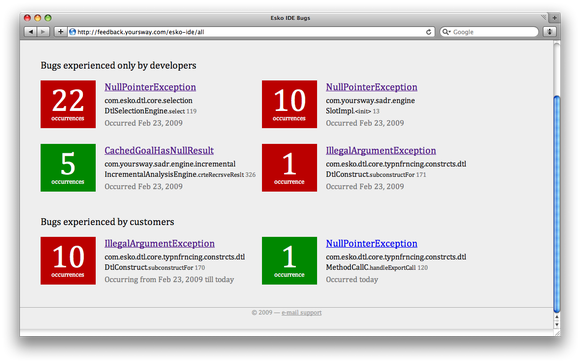
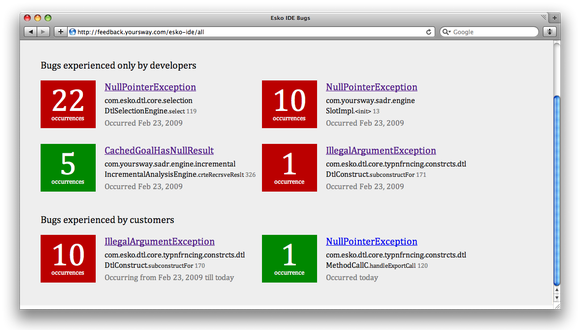
Spacing and horizontal grid adjustments.

diff --git a/server/templates/site_home.html b/server/templates/site_home.html
@@ -80,7 +80,7 @@
     </div>
     
     <div class="screen" style="width: 450px; padding-right: 100px;">
-      <div style="text-align: center; position: relative; padding-top: 1.5em;">
+      <div style="text-align: center; position: relative; padding-top: 3em;">
         <div style="position: absolute; top: 14em; margin-top: -2em; right: 0px;">
           <span style="font-size: 400%; line-height: 1;">»</span>
         </div>
@@ -92,149 +92,106 @@
     </div>
   
     <div id="one" class="screen" style="width: 580px;">
-      <div style="text-align: center; height: 3em;">
-        <span style="font-size: 300%; line-height: 1;">Live crash data</span>
-      </div>
-      <div><img src="/static/images/marketing/bugs.png" /></div>
+      <h2>See crashes live</h2>
+      <p>
+        Inspect crashes online as soon as they occur.
+        See how frequent each exception is.
+        Filter out the ones you have already seen.
+      </p>
+      <p><img class="screenshot" src="/static/images/marketing/bugs.png" width="580" height="330" style="padding-bottom: 4px;" /></p>
     </div>
 
-    <div class="screen" style="width: 500px;">
-      <div style="line-height: 1.5;">
-        <div style="margin-top: 3em;">
-          <span style="font-size: 200%;">
-            How it works?
-          </span>
-        </div>
-        <div style="margin-top: 1.5em;">
-          <span style="font-size: 150%;">
-            You install CrashKit client code into your application.
-          </span>
-        </div>
-        <div style="margin-top: 1.5em;">
-          <span style="font-size: 150%;">
-            CrashKit client code intercepts unhandled exceptions and sends them to the server.
-          </span>
-        </div>
-        <div style="margin-top: 1.5em;">
-          <span style="font-size: 150%;">
-            CrashKit web application processes the exception reports and allows to view
-            them online.
-          </span>
-        </div>
-      </div>
+    <div class="screen" style="width: 500px; padding-top: 8.5em;">
+      <h2>How it works?</h2>
+      <p>
+        You install CrashKit client code into your application.
+      </p>
+      <p>
+        CrashKit client code intercepts unhandled exceptions and sends them to the server.
+      </p>
+      <p>
+        CrashKit web application processes the exception reports and allows to view them online.
+      </p>
     </div>
 
     <div id="two" class="screen" style="width: 580px;">
-      <div style="text-align: center; height: 3em;">
-        <span style="font-size: 300%; line-height: 1;">Every detail you want</span>
-      </div>
-      <div><img src="/static/images/marketing/details.png" /></div>
+      <h2>Get every detail you want</h2>
+      <p>CrashKit automatically gathers product version, os&nbsp;version, processor type and other small
+        yet&nbsp;important details.</p>
+      <p><img class="screenshot" src="/static/images/marketing/details.png" width="580" height="334" /></p>
     </div>
 
-    <div id="three" class="screen" style="width: 420px;">
-      <div style="text-align: center; height: 4em;">
-        <span style="font-size: 300%; line-height: 1;">Instant notifications</span>
-      </div>
-      <div style="margin-top: 1em; text-align: center;"><img src="/static/images/marketing/email.png" /></div>
-      <div style="margin-top: 1em; padding-left: 5px; padding-right: 5px;">
-        <span style="font-size: 150%; line-height: 1.5;">
-          Learn about new bugs before your users even notice.
-          Fix them before the users complain.
-        </span>
-      </div>
+    <div id="three" class="screen" style="width: 420px; padding-top: 3em;">
+      <h2>E-mail notifications</h2>
+      <p>
+        Learn about new bugs before your users even notice.
+        Fix&nbsp;them before the users complain.
+      </p>
+      <p>
+        We won't spam your inbox, though: similar crashes
+        are never reported twice during the day.
+      </p>
+      <p><img src="/static/images/marketing/email.png" /></p>
     </div>
   
-    <div id="four" class="screen" style="width: 350px;">
-      <div style="line-height: 1.5;">
-        <div style="margin-top: 5em;">
-          <span style="font-size: 200%;">
-            Smart grouping
-          </span>
-        </div>
-        <div style="margin-top: 1.5em;">
-          <span style="font-size: 150%;">
-            Thousands of similar exception reports are&nbsp;grouped into dozens of&nbsp;bugs.
-            You only have to&nbsp;see and deal with bugs.
-          </span>
-        </div>
-        <div style="margin-top: 1.5em;">
-          <span style="font-size: 150%;">
-            That's also why we do not fill&nbsp;up your inbox: you'll be getting only one e-mail per
-            bug per day.
-          </span>
-        </div>
-      </div>
+    <div id="four" class="screen" style="width: 350px; padding-top: 3em;">
+      <h2>Smart grouping</h2>
+      <p>
+        Not all crash reports are created equal. Some differ in&nbsp;details.
+        Some have different stack traces, but still occur at&nbsp;the&nbsp;same spot.
+      </p>
+      <p>
+        1000s of similar exception reports are&nbsp;grouped into&nbsp;10s of&nbsp;bugs.
+        You only have to&nbsp;see and deal with those bugs.
+      </p>
+      <p>
+        That's why we can avoid filling&nbsp;up your inbox: you are getting only one e-mail per
+        bug per day.
+      </p>
     </div>
 
-   <div id="five" class="screen" style="width: 350px;">
-     <div style="line-height: 1.5;">
-       <div style="margin-top: 5em;">
-         <span style="font-size: 200%;">
-           QA support
-         </span>
-       </div>
-       <div style="margin-top: 1.5em;">
-         <span style="font-size: 150%;">
-           See the bugs that only happened in your QA environment separately. And also
-           separate are the bugs happening on developer machines.
-         </span>
-       </div>
-       <div style="margin-top: 1.5em;">
-         <span style="font-size: 150%;">
-           Expect more QA tools to&nbsp;come as&nbsp;CrashKit evolves.
-         </span>
-       </div>
-     </div>
-   </div>
+    <div id="five" class="screen" style="width: 350px; padding-top: 3em;">
+      <h2>QA support</h2>
+      <p>
+        See the bugs that only happened in your QA environment separately. And also
+        separate are the bugs happening on developer machines.
+      </p>
+      <p>
+        Expect more QA tools to&nbsp;come as&nbsp;CrashKit evolves.
+      </p>
+    </div>
 
-   <div id="six" class="screen" style="width: 580px;">
-     <div style="text-align: center; height: 3em;">
-       <span style="font-size: 300%; line-height: 1;">Five minutes to integrate</span>
-     </div>
-     <div style="margin-top: 1em; padding-left: 5px; padding-right: 5px;">
-       <span style="font-size: 150%; line-height: 1.5;">
-         1. Add our client to your project. 2. Tell it your app name and version.
-         3. Feed it all your uncaught exceptions.
-       </span>
-     </div>
-     <div><img src="/static/images/marketing/integrate.png" /></div>
-   </div>
+    <div id="six" class="screen" style="width: 580px;">
+      <h2>Five minutes to integrate</h2>
+      <p>1. Add CrashKit client code to your project.</p>
+      <p>2. Tell it your app name and version.</p>
+      <p>3. Feed all your uncaught exceptions into CrashKit.</p>
+      <p><img src="/static/images/marketing/integrate.png" /></p>
+    </div>
 
-   <div class="screen" style="width: 350px;">
-     <div style="line-height: 1.5;">
-       <div style="margin-top: 7.5em;">
-         <span style="font-size: 150%;">
-           We support or plan to support within&nbsp;a&nbsp;month:
-          </span>
-       </div>
-       <div style="margin-top: 1.5em;">
-         <span style="font-size: 150%;">
-           <b>Java,</b> Eclipse, OSGi, Servlets, Spring, <b>Objective-C,</b> Cocoa,
-           <b>Python,</b> Google App Engine, Django, <b>Ruby</b>, Ruby on Rails.
-         </span>
-       </div>
-     </div>
-   </div>
+    <div class="screen" style="width: 350px; padding-top: 10.5em;">
+      <p>
+        We support or plan to support within&nbsp;a&nbsp;month:
+      </p>
+      <p>
+        <b>Java,</b> Eclipse, OSGi, Spring, Log4j.
+      </p>
+      <p>
+        <b>Python,</b> Google App Engine, Django.
+      </p>
+      <p>
+        <b>Ruby</b>, Ruby on Rails.
+      </p>
+      </p>
+    </div>
 
-    <div class="screen" style="width: 500px;" id="signup">
-      <div style="line-height: 1.5;">
-        <div style="margin-top: 0em;">
-          <span style="font-size: 200%;">
-            <a name="signup">Sign up?</a>
-          </span>
-        </div>
-        <div style="margin-top: 1.5em;">
-          <span style="font-size: 150%;">
-            We are only running a&nbsp;limited beta at&nbsp;the moment.
-            But we promise to&nbsp;invite you within&nbsp;a&nbsp;month.
-          </span>
-        </div>
-        <div style="margin-top: 1.5em;">
-          <span style="font-size: 150%;">
-            {% include "beta_signup_form.html" %}
-          </span>
-        </div>
-      </div>
+    <div class="screen" style="width: 500px; padding-top: 3em;" id="signup">
+      <h2><a name="signup">Sign up?</a></h2>
+      <p>
+        We are only running a&nbsp;limited beta at&nbsp;the moment.
+        But we promise to&nbsp;invite you within&nbsp;a&nbsp;month.
+      </p>
+      {% include "beta_signup_form.html" %}
     </div>
     
   </div>

diff --git a/server/templates/beta_signup_form.html b/server/templates/beta_signup_form.html
@@ -2,9 +2,13 @@
   <h2 style="margin-top: 1em;">Limited Beta</h2>
   <div id="beta_signup">
     <form id="beta_signup_form" action="/betasignup/" method="POST">
-      <p><input type="text" id="email" name="email" size="30" placeholder="Your e-mail" style="width: 100%;"></p>
-      <p><input type="text" id="tech" name="tech" size="30" placeholder="Java or Python or Ruby or what?" style="width: 100%;"></p>
-      <p id="beta_signup_message" style="line-height: 1"><small>We'll send you 2 e-mails: your beta invitation and the final release announcement.</small></p>
+      <p>
+        <input type="text" id="email" name="email" size="30" placeholder="Your e-mail" style="width: 100%;">
+        <br/>
+        <input type="text" id="tech" name="tech" size="30" placeholder="Java or Python or Ruby or what?" style="width: 100%;">
+        <br/>
+        <span id="beta_signup_message"><small>We'll send you 2 e-mails: your beta invitation and the final release announcement.</small></span>
+      </p>
       <p><input type="submit" class="submit" value="I wanna try CrashKit"></p>
     </form>
   </div>

diff --git a/server/static/stylesheets/marketing.css b/server/static/stylesheets/marketing.css
@@ -42,8 +42,11 @@ a#authors       { right: 80px; top: 50%; height: 40px; width: 126px; margin-top:
 #top, #bottom { z-index: 1; }
 
 .container { width: 5360px; height: 30em; position: absolute; top: 50%; margin-top: -15em; }
-.screen { line-height: 1; float: left; padding: 20px 150px 20px 0px; }
-.text { font-size: 500%; line-height: 1.5; display: table-cell; vertical-align: middle; }
+.screen { line-height: 1; float: left; padding: 0px 150px 20px 0px; }
+
+.screen h2 { font-size: 200%; line-height: 1; margin-bottom: 0.5em;}
+.screen p { margin-top: 0.778em; font-size: 128.5%; line-height: 1.167; }
+img.screenshot { margin-left: -20px; margin-right: -20px; margin-top: -12px; margin-bottom: -20px; }
 
 input { font-size: 75%; }
 
